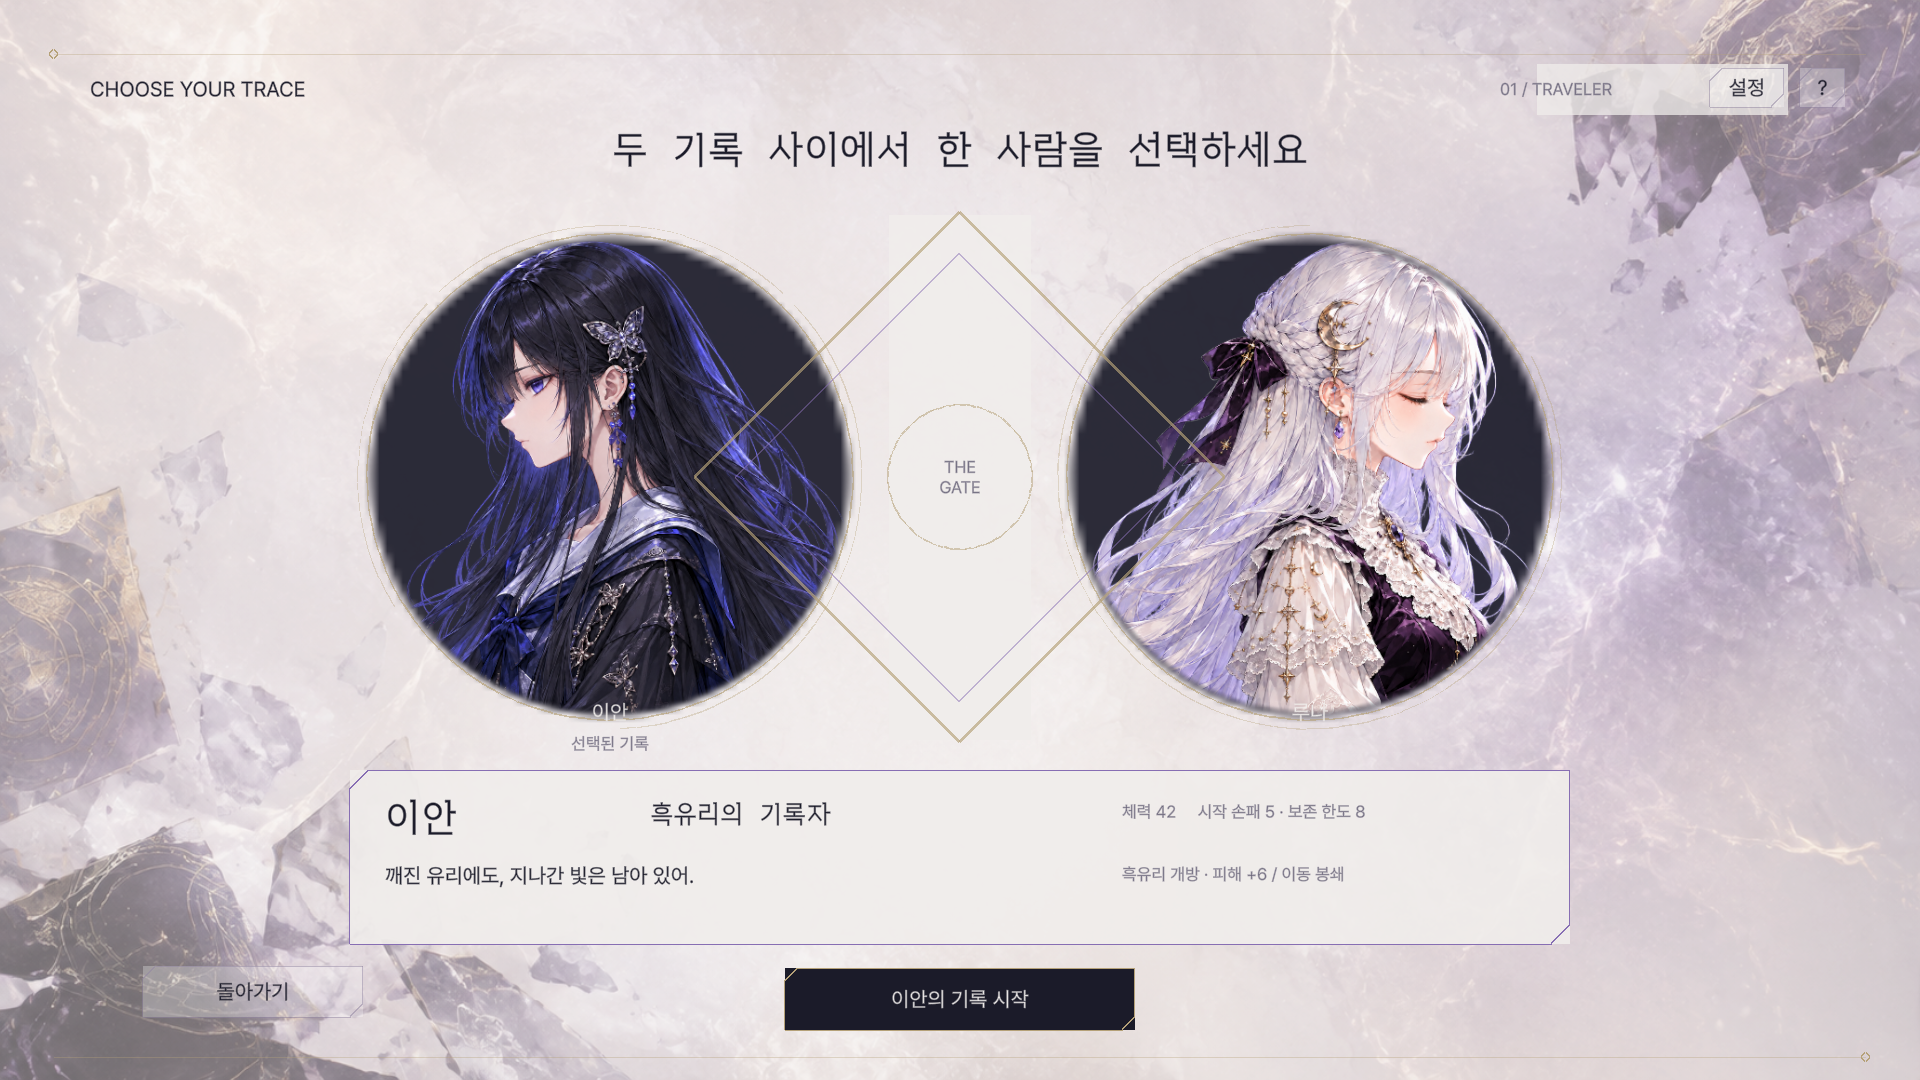
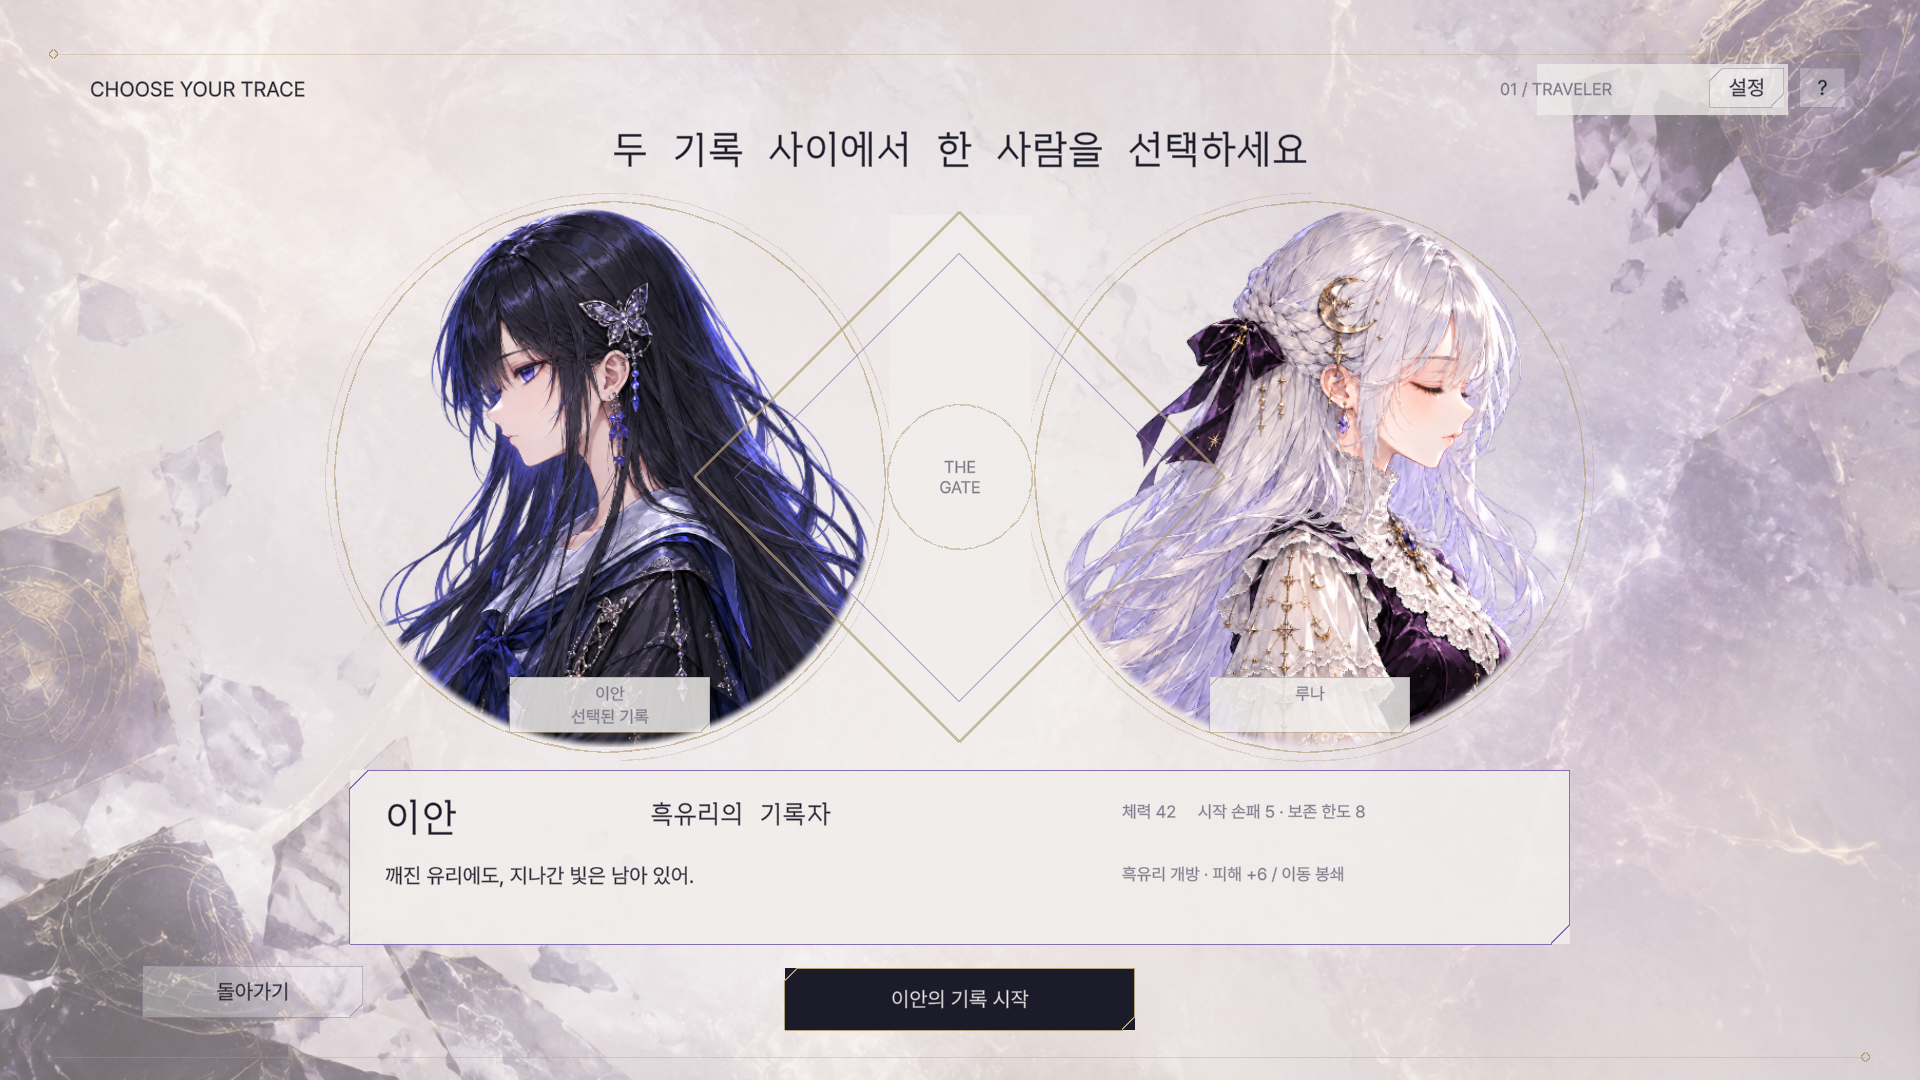
Refine transparent character selection portraits

Changed region(s): [[0.5312, 0.1833, 0.8125, 0.7028], [0.1875, 0.1833, 0.4688, 0.7028]]

diff --git a/Assets/Scripts/Runtime/Presentation/GraphaclysmModernScreens.cs b/Assets/Scripts/Runtime/Presentation/GraphaclysmModernScreens.cs
@@ -84,9 +84,9 @@ namespace Graphaclysm.Runtime.Presentation
             Ring(new Vector2(960, 477), 72, new Color(Gold.r, Gold.g, Gold.b, .52f), 1.5f);
             Label(new Rect(890, 440, 140, 74), "THE\nGATE", ui.Small, true);
 
-            if (GUI.Button(new Rect(left.x - 260, left.y - 260, 520, 520), GUIContent.none, GUIStyle.none))
+            if (GUI.Button(new Rect(left.x - 280, left.y - 280, 560, 560), GUIContent.none, GUIStyle.none))
             { flow.TrySelectCharacter(0); Refresh(); }
-            if (GUI.Button(new Rect(right.x - 260, right.y - 260, 520, 520), GUIContent.none, GUIStyle.none))
+            if (GUI.Button(new Rect(right.x - 280, right.y - 280, 560, 560), GUIContent.none, GUIStyle.none))
             { flow.TrySelectCharacter(1); Refresh(); }
 
             Fill(new Rect(350, 770, 1220, 174), new Color(Paper.r, Paper.g, Paper.b, .9f));
@@ -103,8 +103,7 @@ namespace Graphaclysm.Runtime.Presentation
         private void DrawCharacterMedallion(int index, Vector2 center, Texture2D closed, Texture2D open)
         {
             float eyeOpen = characterEyeOpen[index];
-            const float radius = 238;
-            Disc(center, radius + 12, new Color(Ink.r, Ink.g, Ink.b, .92f));
+            const float radius = 270;
             Rect image = new Rect(center.x - radius, center.y - radius, radius * 2, radius * 2);
             Color saved = GUI.color;
             GUI.color = new Color(1, 1, 1, 1 - eyeOpen);
@@ -115,9 +114,12 @@ namespace Graphaclysm.Runtime.Presentation
             Color ring = new Color(Gold.r, Gold.g, Gold.b, .62f);
             Ring(center, radius + 5, ring, 1.5f);
             Ring(center, radius + 14, new Color(ring.r, ring.g, ring.b, .32f), 1.1f, .83f, index == 0 ? 2.6f : -.5f);
-            Label(new Rect(center.x - 125, center.y + radius - 24, 250, 42), index == 0 ? "이안" : "루나", ui.Light, true);
+            Rect tag = new Rect(center.x - 100, center.y + radius - 70, 200, 55);
+            Fill(tag, new Color(Paper.r, Paper.g, Paper.b, .84f));
+            Border(tag, ring, 8);
+            Label(new Rect(tag.x + 8, tag.y + 2, tag.width - 16, 29), index == 0 ? "이안" : "루나", ui.Small, true);
             if (flow.SelectedCharacterIndex == index)
-                Label(new Rect(center.x - 125, center.y + radius + 13, 250, 31), "선택된 기록", ui.Small, true);
+                Label(new Rect(tag.x + 8, tag.y + 28, tag.width - 16, 23), "선택된 기록", ui.Small, true);
         }
 
         private Vector2 MapPoint(RunMapNodeDefinition node)

diff --git a/Docs/CHARACTER_SELECTION_V11.md b/Docs/CHARACTER_SELECTION_V11.md
@@ -2,7 +2,9 @@
 
 ## 동작
 
-중앙 관문과 두 원형 배치는 유지한다. 이안은 화면 왼쪽을, 루나는 화면 오른쪽을 바라보는 새 옆모습이다. 기본 상태는 두 인물 모두 눈을 감고, 포인터가 올라간 인물만 동일한 위치·크기에서 눈을 뜬다. 확대·블러·저채도·선택 테두리 강조는 없다. 호버는 하단 정보를 미리 보고, 클릭은 실제 선택을 바꾼다.
+중앙 관문과 두 원형 배치는 유지한다. 이안은 화면 왼쪽을, 루나는 화면 오른쪽을 바라보는 새 옆모습이다. 기본 상태는 두 인물 모두 눈을 감고, 포인터가 올라간 인물만 동일한 위치·크기에서 눈을 뜬다. 확대·블러·저채도·선택 테두리 강조는 없다. 검은 원형 배경도 그리지 않아 투명 초상 뒤로 선택창 배경이 그대로 보인다. 호버는 하단 정보를 미리 보고, 클릭은 실제 선택을 바꾼다.
+
+표시 지름은 476에서 540 논리 픽셀로 키웠다. 호버 확대가 아니라 기본 크기 자체를 높인 것이므로 눈 전환 중 외곽선과 클릭 영역은 움직이지 않는다. 이름은 밝은 배경에서도 읽히도록 작은 상아색 반투명 표찰에 둔다.
 
 선택용 표시본은 `Awake`에서 512×512로 한 번 굽고 닫힘/열림 alpha만 교차한다. `연출 줄이기`에서는 즉시 바뀌고, 기본 설정에서는 짧게 교차한다. 전투·던전 규칙은 바뀌지 않아 저장 `RulesVersion`은 10을 유지한다.
 

diff --git a/ART_DIRECTION.md b/ART_DIRECTION.md
@@ -2,7 +2,7 @@
 
 ## v11 옆모습 눈 전환
 
-2026-09-10. v10의 기존 전신 초상 크롭·블러·확대 연출을 교체했다. 선택창 전용으로 이안은 왼쪽, 루나는 오른쪽을 향한 자연스러운 옆모습을 새로 제작했다. 기본 상태는 두 인물 모두 눈을 감고, 호버한 인물만 같은 크기·위치에서 눈을 뜬다. 선택 표시는 초상 확대나 색 하이라이트 대신 이름 아래 문구와 하단 정보 패널로 구분한다.
+2026-09-10. v10의 기존 전신 초상 크롭·블러·확대 연출을 교체했다. 선택창 전용으로 이안은 왼쪽, 루나는 오른쪽을 향한 자연스러운 옆모습을 새로 제작했다. 기본 상태는 두 인물 모두 눈을 감고, 호버한 인물만 같은 크기·위치에서 눈을 뜬다. 초상 뒤의 검은 원을 제거하고 기본 표시 지름을 540px로 키웠다. 선택 표시는 초상 확대나 색 하이라이트 대신 이름 표찰과 하단 정보 패널로 구분한다.
 
 네 원본은 1254×1254 RGBA PNG이며 기존 이안 v2·루나 v6 전신 초상은 지도·전투용으로 보존한다. 새 자산과 생성 프롬프트, 투명도 검수는 [캐릭터 선택 v11](Docs/CHARACTER_SELECTION_V11.md)에 기록했다. 대표 화면은 `Docs/Screenshots/characters-profile-idle-v11.png`, `characters-profile-hover-ian-v11.png`, `characters-profile-hover-luna-v11.png`다.
 

diff --git a/ARCHITECTURE.md b/ARCHITECTURE.md
@@ -2,7 +2,7 @@
 
 ## v11 캐릭터 선택 초상
 
-선택 전용 이안·루나의 눈 감음/눈 뜸 RGBA Texture 네 장을 Resources에서 한 번 불러온다. `PortraitMedallion.shader`는 블러·채도 조작 없이 원형 알파 마스크만 적용하여 512×512 표시본 네 장을 `Awake`에서 굽는다. `characterEyeOpen` 두 float만 호버에 따라 0/1로 이동시키며 닫힘/열림 표시본의 alpha를 교차한다. 위치·크기·테두리는 상태와 무관하게 고정한다. 생성 Texture와 Material은 `OnDestroy`에서 해제한다.
+선택 전용 이안·루나의 눈 감음/눈 뜸 RGBA Texture 네 장을 Resources에서 한 번 불러온다. `PortraitMedallion.shader`는 블러·채도 조작 없이 원형 알파 마스크만 적용하여 512×512 표시본 네 장을 `Awake`에서 굽는다. View는 뒤에 불투명 원을 그리지 않는다. `characterEyeOpen` 두 float만 호버에 따라 0/1로 이동시키며 닫힘/열림 표시본의 alpha를 교차한다. 기본 표시 지름은 540 논리 픽셀이며 위치·크기·테두리는 상태와 무관하게 고정한다. 생성 Texture와 Material은 `OnDestroy`에서 해제한다.
 
 Presentation만 바뀌므로 Core/Application 규칙과 `RunSaveData.RulesVersion=10`은 유지한다. 자세한 자산 계약은 [캐릭터 선택 v11](Docs/CHARACTER_SELECTION_V11.md)이다.
 

diff --git a/AGENTS.md b/AGENTS.md
@@ -6,7 +6,7 @@
 
 사용자가 v10 선택창 의도를 정정했다. 기존 전신 초상 크롭과 확대·블러·하이라이트는 사용하지 않는다. 새 옆모습에서 기본은 눈 감음, 호버는 눈 뜸이다. 아래 v10 인계보다 이 항목이 최신이다.
 
-- 이안은 왼쪽, 루나는 오른쪽을 향하는 선택 전용 옆모습이다. 두 원형 초상의 크기·위치·테두리는 호버와 무관하게 고정한다.
+- 이안은 왼쪽, 루나는 오른쪽을 향하는 선택 전용 옆모습이다. 불투명 검은 원 배경은 없고 기본 지름은 540px다. 두 초상의 크기·위치·테두리는 호버와 무관하게 고정한다.
 - 각 인물의 눈 감음/눈 뜸 RGBA PNG를 alpha 교차한다. 선택은 이름 아래 `선택된 기록`과 하단 패널/시작 버튼으로 구분하며, 호버는 설명 미리보기만 바꾼다.
 - 원본 1254×1254 네 장은 `Assets/Resources/Art/Generated/*-profile-eyes-*-v11.png`다. 기존 이안 v2·루나 v6는 지도·전투용으로 보존한다.
 - `PortraitMedallion.shader`는 이제 블러나 색 조작 없이 원형 alpha만 굽는다. 표시본 네 장과 Material은 View가 해제한다.

diff --git a/PROTOTYPE.md b/PROTOTYPE.md
@@ -4,7 +4,7 @@
 
 ## v11 캐릭터 선택
 
-이안은 왼쪽, 루나는 오른쪽을 향한 새 옆모습 초상을 사용한다. 평소 두 인물은 눈을 감고 있으며 마우스를 올린 인물만 같은 위치와 크기에서 눈을 뜬다. 확대·블러·채도·테두리 하이라이트 변화는 없다. 호버는 하단 설명 미리보기, 클릭은 실제 선택이다. [상세 자산과 검증](Docs/CHARACTER_SELECTION_V11.md)을 따른다.
+이안은 왼쪽, 루나는 오른쪽을 향한 새 옆모습 초상을 사용한다. 평소 두 인물은 눈을 감고 있으며 마우스를 올린 인물만 같은 위치와 크기에서 눈을 뜬다. 검은 원형 배경은 없고 기본 초상 크기를 540px로 넓혔다. 호버 확대·블러·채도·테두리 하이라이트 변화는 없다. 호버는 하단 설명 미리보기, 클릭은 실제 선택이다. [상세 자산과 검증](Docs/CHARACTER_SELECTION_V11.md)을 따른다.
 
 ## v10 전장과 카드
 

diff --git a/GAME_DESIGN_DOCUMENT.md b/GAME_DESIGN_DOCUMENT.md
@@ -4,7 +4,7 @@
 
 ## v11 캐릭터 선택 연출
 
-중앙 관문 왼쪽의 이안은 왼쪽, 오른쪽의 루나는 오른쪽을 바라보는 새 옆모습이다. 기본 상태에서는 두 인물이 눈을 감고, 마우스를 올린 인물만 같은 위치와 크기에서 눈을 뜬다. 확대·블러·채도·테두리 강조는 사용하지 않는다. 호버는 정보 미리보기이고 클릭해야 실제 캐릭터 선택이 바뀐다.
+중앙 관문 왼쪽의 이안은 왼쪽, 오른쪽의 루나는 오른쪽을 바라보는 새 옆모습이다. 불투명 검은 원 없이 투명 초상을 540px 지름으로 크게 표시한다. 기본 상태에서는 두 인물이 눈을 감고, 마우스를 올린 인물만 같은 위치와 크기에서 눈을 뜬다. 확대·블러·채도·테두리 강조는 사용하지 않는다. 호버는 정보 미리보기이고 클릭해야 실제 캐릭터 선택이 바뀐다.
 
 ## v10 화면과 전장 변수
 

diff --git a/README.md b/README.md
@@ -21,7 +21,7 @@
 - 방출·체력을 사용하는 응축·해체, 이동과 이동 취소
 - 적 적중 피해와 자기 적중 강화, 이안·루나의 공명 궁극기
 - 이벤트·휴식·유물 방과 층별 보스를 포함한 3층 생성 던전, 유물 14종
-- 중앙 관문 양쪽의 새 옆모습 캐릭터 선택 초상, 기본 눈 감음·호버 눈 뜸 연출
+- 중앙 관문 양쪽의 큰 투명 옆모습 초상, 기본 눈 감음·호버 눈 뜸 연출
 - 전체 화면 전장 배경, 1180×944 활성 좌표 필드, 가장자리 오버레이 HUD
 - 책장형 카드와 부채꼴 손패, 카드·상태·지형 키워드 호버 설명
 - 이동을 막는 기록 기둥과 작도 적중 피해를 높이는 굴절 프리즘
